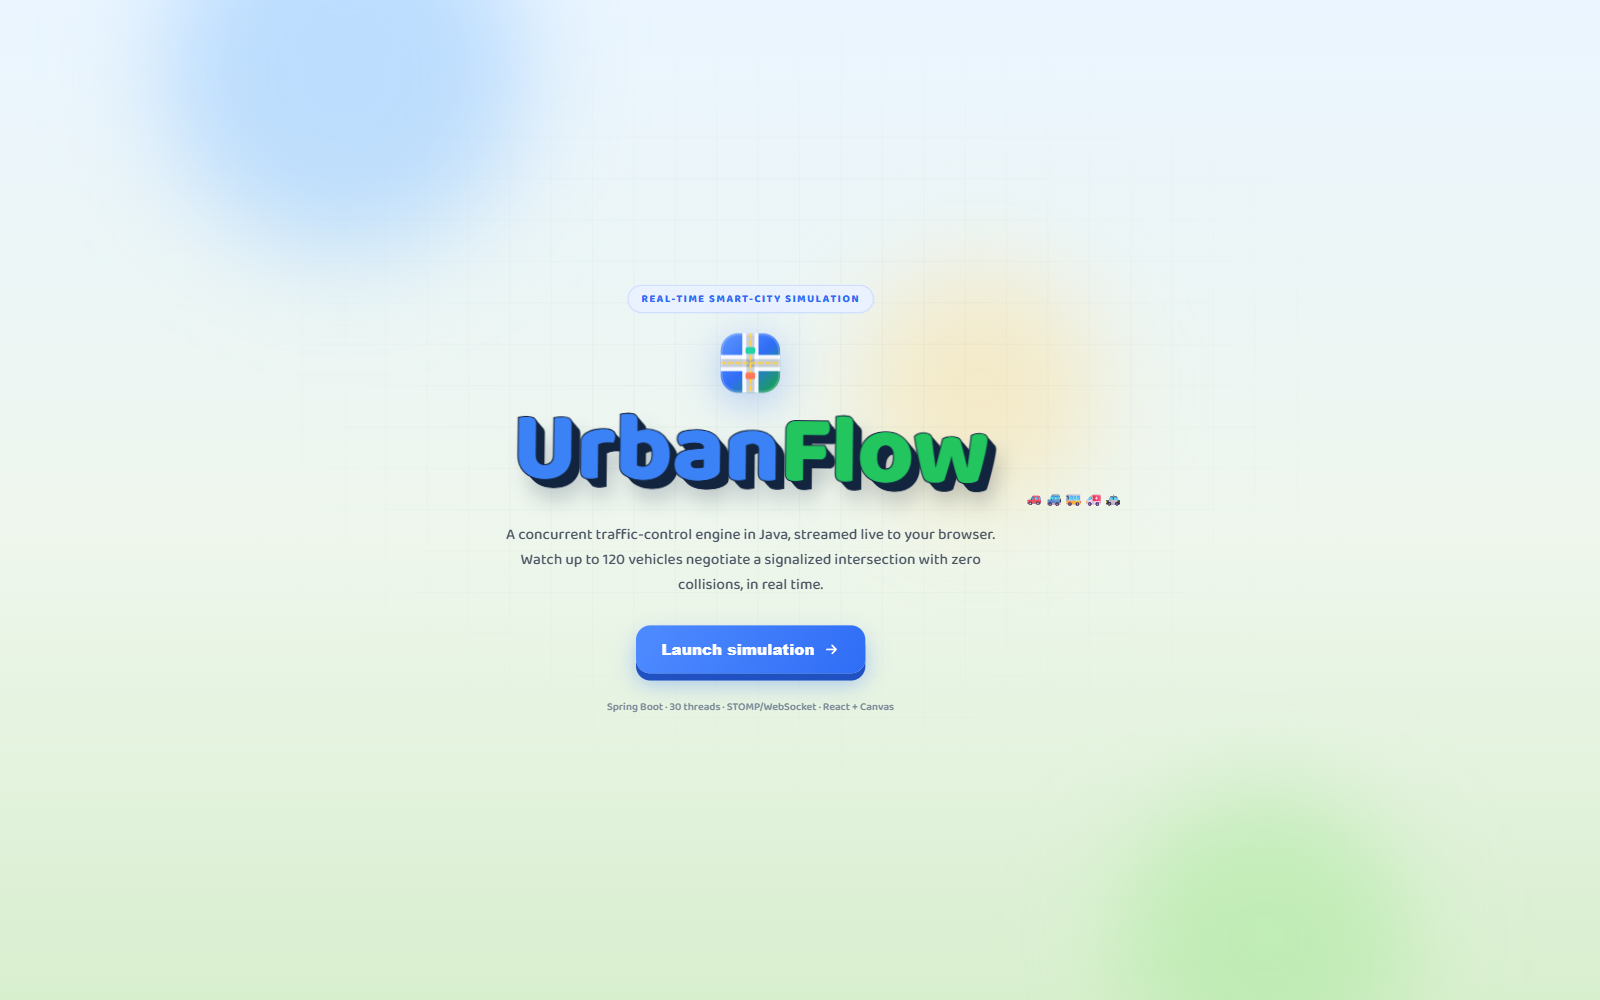
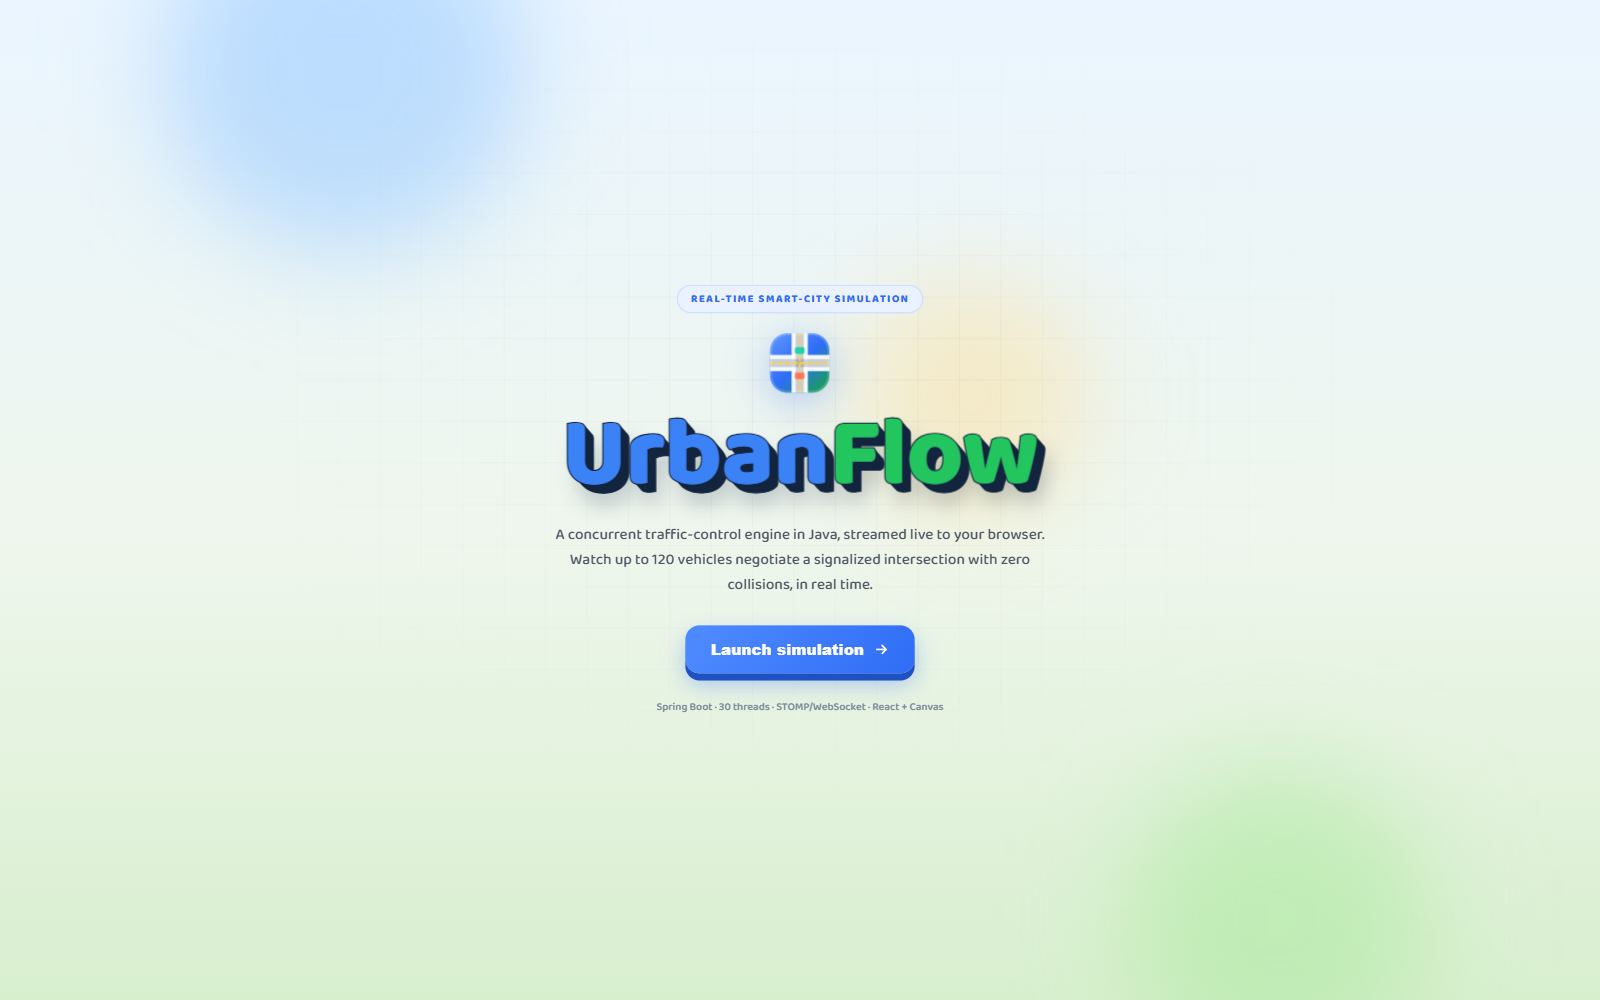
Center the welcome page and remove the floating vehicle emojis
The emoji row was a second flex child of the welcome screen, so it sat to the right of the content and pushed everything off-centre. Removing it both drops the icons and recentres the page.

Changed region(s): [[0.3125, 0.279, 0.6875, 0.589], [0.375, 0.62, 0.5938, 0.713]]

diff --git a/frontend/src/WelcomePage.tsx b/frontend/src/WelcomePage.tsx
@@ -34,14 +34,6 @@ export default function WelcomePage({ onLaunch }: Props) {
 
         <div className="welcome-foot">Spring Boot · 30 threads · STOMP/WebSocket · React + Canvas</div>
       </div>
-
-      <div className="welcome-road">
-        <span className="w-veh" style={{ animationDelay: '0s' }}>🚗</span>
-        <span className="w-veh" style={{ animationDelay: '1.4s' }}>🚙</span>
-        <span className="w-veh" style={{ animationDelay: '2.8s' }}>🚌</span>
-        <span className="w-veh" style={{ animationDelay: '4.2s' }}>🚑</span>
-        <span className="w-veh" style={{ animationDelay: '5.4s' }}>🚓</span>
-      </div>
     </div>
   );
 }
